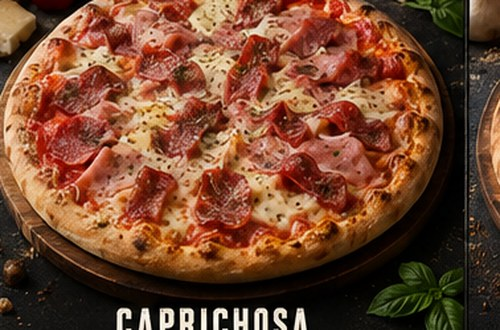
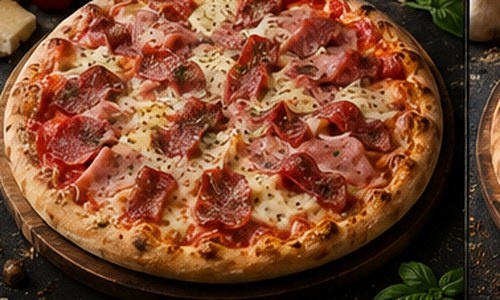
Add files via upload

diff --git a/index.html b/index.html
@@ -48,12 +48,12 @@ footer a{color:var(--text);text-decoration:none}
 @media(max-width:680px){.extra-list{grid-template-columns:repeat(2,1fr)}.extra-line{padding:5px 6px}.extra-line strong{font-size:8.5px}.extra-line span{font-size:7.5px}}
 
 .pizza{display:grid;grid-template-columns:112px minmax(0,1fr) auto;align-items:center;gap:12px}
-.pizza-photo{width:112px;height:82px;object-fit:contain;border-radius:10px;display:block;background:#0b0e0b}
+.pizza-photo{width:112px;height:82px;object-fit:cover;border-radius:10px;display:block;background:#0b0e0b}
 .pizza.featured{border-color:var(--line);background:linear-gradient(135deg,rgba(255,255,255,.025),rgba(255,255,255,.008))}
 .featured .name{color:var(--text)}
 @media(max-width:680px){
   .pizza{grid-template-columns:92px minmax(0,1fr) auto;gap:9px;padding:10px}
-  .pizza-photo{width:92px;height:70px;object-fit:contain;background:#0b0e0b}
+  .pizza-photo{width:92px;height:70px;object-fit:cover;background:#0b0e0b}
   .name{font-size:12px;letter-spacing:1px}
   .desc{font-size:10px}
   .cash{font-size:15px}
